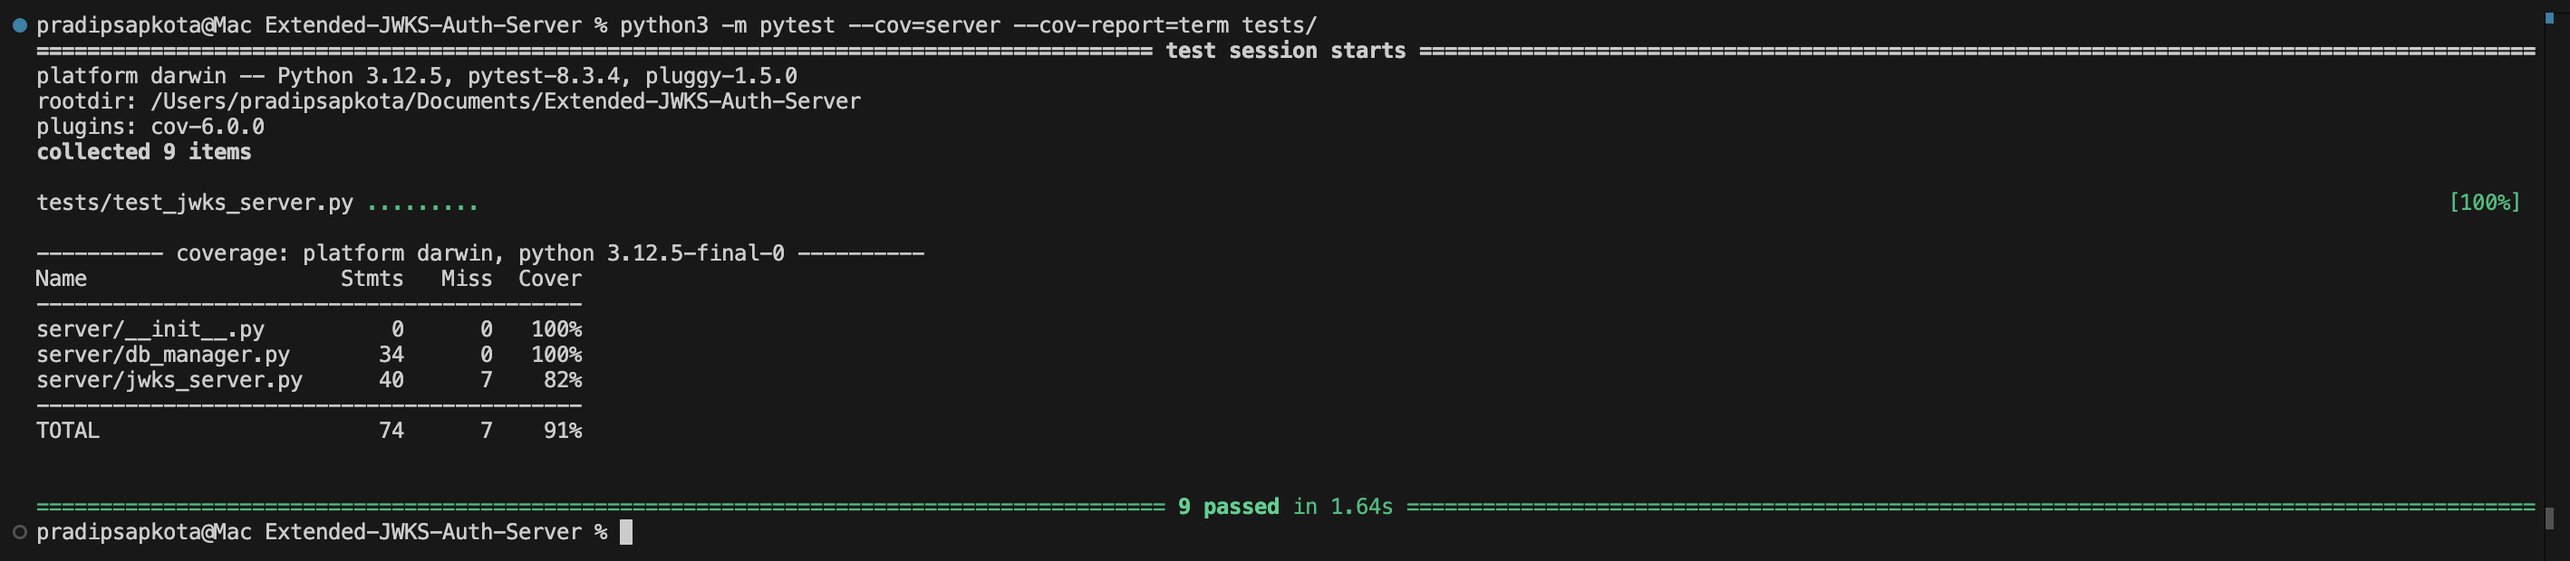
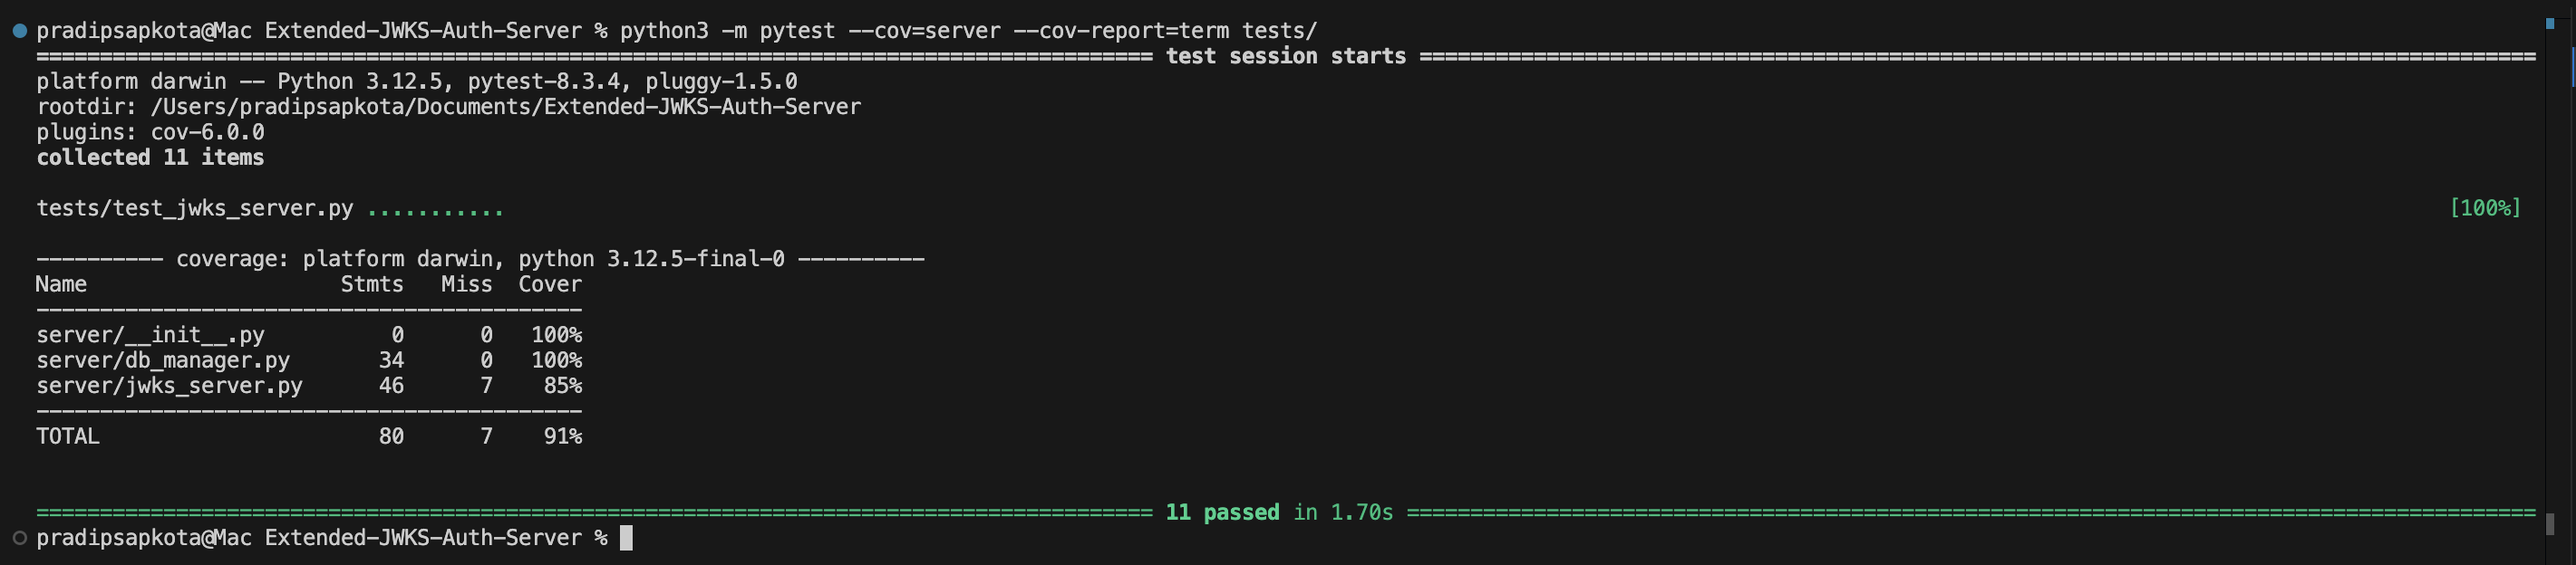
final commit

diff --git a/tests/test_jwks_server.py b/tests/test_jwks_server.py
@@ -191,6 +191,33 @@ class TestJWKSApp(unittest.TestCase):
             "fetch_valid_keys should return only unexpired keys."
         )
 
+    def test_invalid_methods_jwks(self):
+        """
+        Test invalid HTTP methods (POST, PUT, DELETE, PATCH) on JWKS endpoint
+        """
+        invalid_methods = ['POST', 'PUT', 'DELETE', 'PATCH']
+        for method in invalid_methods:
+            response = self.client.open(
+                '/.well-known/jwks.json', method=method
+            )
+            self.assertEqual(
+                response.status_code, 405,
+                f"{method} on JWKS should return 405."
+            )
+
+    def test_invalid_methods_auth(self):
+        """
+        Test invalid HTTP methods (GET, PUT, DELETE, PATCH, HEAD)
+        on /auth endpoint
+        """
+        invalid_methods = ['GET', 'PUT', 'DELETE', 'PATCH']
+        for method in invalid_methods:
+            response = self.client.open('/auth', method=method)
+            self.assertEqual(
+                response.status_code, 405,
+                f"{method} on /auth should return 405."
+            )
+
 
 if __name__ == '__main__':
     unittest.main()

diff --git a/server/jwks_server.py b/server/jwks_server.py
@@ -1,7 +1,7 @@
 import datetime
 import jwt
 import base64
-from flask import Flask, request, jsonify
+from flask import Flask, request, jsonify, make_response
 from cryptography.hazmat.primitives import serialization
 
 # Import database functions from db_manager
@@ -51,6 +51,17 @@ def post_token():
         return jsonify({'error': 'Token generation failed'}), 500
 
 
+# Handles invalid methods for JWKS endpoint
+@app.route(
+        '/.well-known/jwks.json',
+        methods=['POST', 'PUT', 'DELETE', 'PATCH']
+    )
+def jwks_invalid():
+    return make_response(
+        jsonify({'message': 'Method Not Allowed'}), 405
+    )
+
+
 @app.route('/.well-known/jwks.json', methods=['GET'])
 def serve_jwks():
     """
@@ -77,3 +88,11 @@ def serve_jwks():
             'e': base64.urlsafe_b64encode(e_bytes).decode().rstrip('=')
         })
     return jsonify({'keys': jwks_keys})
+
+
+# Handle invalid method for auth endpoint
+@app.route('/auth', methods=['GET', 'PUT', 'DELETE', 'PATCH'])
+def auth_invalid():
+    return make_response(
+        jsonify({'message': 'Method Not Allowed'}), 405
+    )

diff --git a/README.md b/README.md
@@ -121,21 +121,21 @@ python -m pytest --cov=server --cov-report=term tests/
 platform darwin -- Python 3.12.5, pytest-8.3.4, pluggy-1.5.0
 rootdir: /Users/pradipsapkota/Documents/Extended-JWKS-Auth-Server
 plugins: cov-6.0.0
-collected 9 items                                                                                                                                                                                   
+collected 11 items                                                                                                                                                                                  
 
-tests/test_jwks_server.py .........
+tests/test_jwks_server.py ...........
 
 ---------- coverage: platform darwin, python 3.12.5-final-0 ----------
 Name                    Stmts   Miss  Cover
 -------------------------------------------
 server/__init__.py          0      0   100%
 server/db_manager.py       34      0   100%
-server/jwks_server.py      40      7    82%
+server/jwks_server.py      46      7    85%
 -------------------------------------------
-TOTAL                      74      7    91%
+TOTAL                      80      7    91%
 ```
 
-## Run the test client
+## Run the test client (Gradebot)
 ```bash
 ./gradebot project2
 ```
